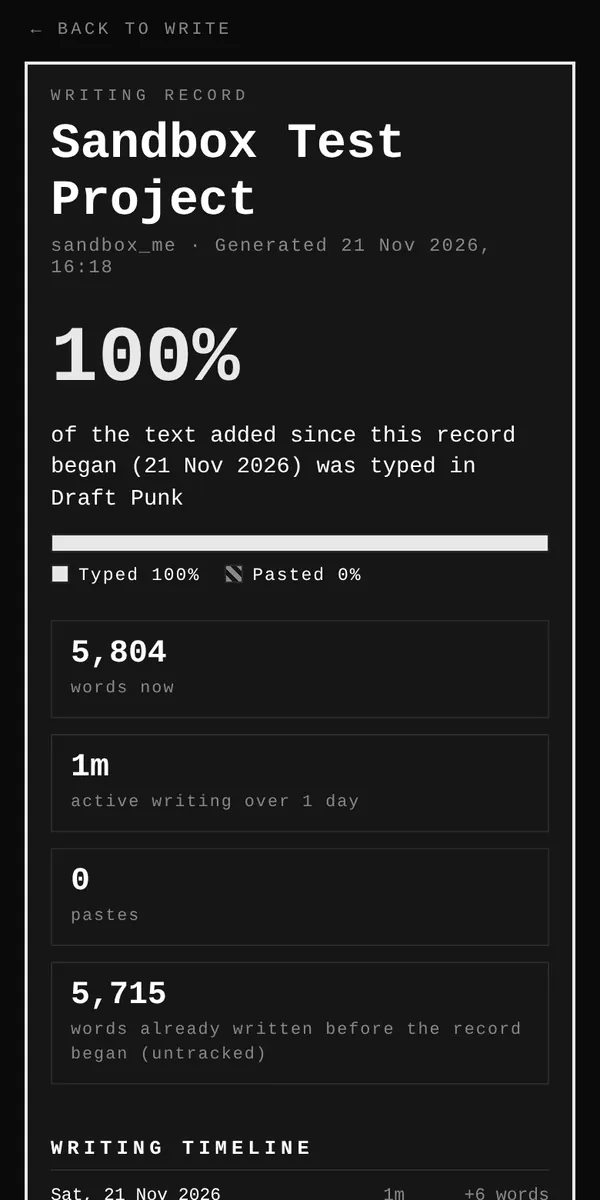
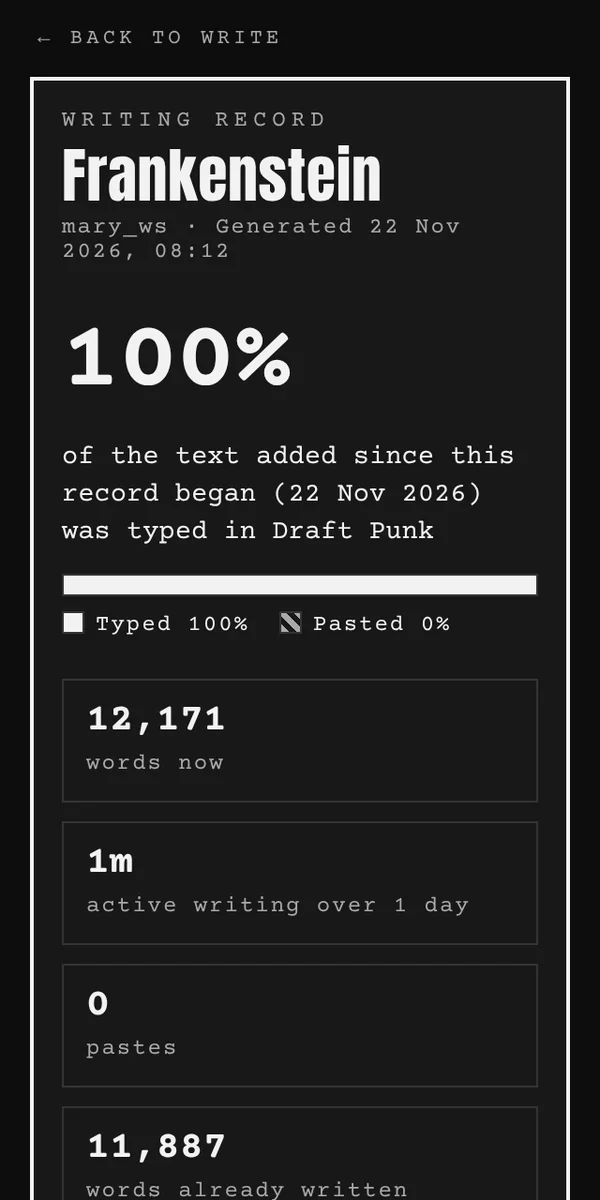
Bosses: drop the float; narrow-phone fixes; landing shots use Frankenstein
- Remove the bob on the next boss (its idle animation moves it)
- Next encounter: long names no longer overlap 'words to go' on narrow phones
- Groups: '+ ADD' no longer pushed off narrow screens
- Landing screenshots retaken with public-domain text (Frankenstein, 1818)

Claude-Session: https://claude.ai/code/session_01Xs8GY9BdVtkwP5KSFjHCCY

diff --git a/index.html b/index.html
@@ -124,7 +124,7 @@
                 <h2 class="lp-display-m">Draft your novel, <mark>chapter by chapter.</mark></h2>
                 <p class="lp-reading">A distraction-free editor with version history for every chapter. Export a standard manuscript as Word, PDF or RTF whenever you need it.</p>
             </div>
-            <img class="lp-shot" src="landing/write.webp" alt="The Write page: a chapter open in the editor" loading="lazy" width="300" height="600">
+            <img class="lp-shot" src="landing/write.webp?v=2" alt="The Write page: a chapter open in the editor" loading="lazy" width="300" height="600">
         </section>
 
         <section class="lp-band">
@@ -141,7 +141,7 @@
                     <figure class="lp-card"><img src="landing/boss-11.webp?v=2" alt="All Is Lost boss" loading="lazy" width="240" height="240"><figcaption>All Is Lost</figcaption></figure>
                     <figure class="lp-card"><img src="landing/boss-14.webp?v=2" alt="Finale boss" loading="lazy" width="240" height="240"><figcaption>Finale</figcaption></figure>
                 </div>
-                <img class="lp-shot lp-shot-band" src="landing/dashboard.webp?v=2" alt="The dashboard: a stage map with the next boss and words to go" loading="lazy" width="300" height="600">
+                <img class="lp-shot lp-shot-band" src="landing/dashboard.webp?v=3" alt="The dashboard: a stage map with the next boss and words to go" loading="lazy" width="300" height="600">
             </div>
         </section>
 
@@ -222,7 +222,7 @@
                 <h2 class="lp-display-m">Write <mark>alongside friends.</mark></h2>
                 <p class="lp-reading">Add writing friends, share chapters with them, and see who's written most on the weekly leaderboard.</p>
             </div>
-            <img class="lp-shot" src="landing/groups.webp" alt="Writing groups: friends and their word counts" loading="lazy" width="300" height="600">
+            <img class="lp-shot" src="landing/groups.webp?v=2" alt="Writing groups: friends and their word counts" loading="lazy" width="300" height="600">
         </section>
 
         <section class="lp-section lp-section-flip">
@@ -231,7 +231,7 @@
                 <h2 class="lp-display-m">Show how your <mark>words arrived.</mark></h2>
                 <p class="lp-reading">Draft Punk records how text came into each chapter: typed, dictated, pasted or imported. Export the record, or share it with a read-only link.</p>
             </div>
-            <img class="lp-shot" src="landing/record.webp" alt="The Writing Record: how much of the text was typed" loading="lazy" width="300" height="600">
+            <img class="lp-shot" src="landing/record.webp?v=2" alt="The Writing Record: how much of the text was typed" loading="lazy" width="300" height="600">
         </section>
 
         <section class="lp-closer">

diff --git a/style.css b/style.css
@@ -2361,7 +2361,14 @@ body.write-focus .write-chapter.write-focus-target .write-toolbar { position: st
 }
 .sm-next img { height: 40px; width: 40px; object-fit: contain; display: block; }
 .sm-next-text { flex: 1; min-width: 0; display: flex; flex-direction: column; gap: 4px; }
-.sm-next-name { font-size: 0.95rem; font-weight: 700; color: var(--neon); }
+.sm-next-name { font-size: 0.95rem; font-weight: 700; color: var(--neon); overflow-wrap: break-word; }
+/* Narrow phones: long encounter names get the full width, words-to-go drops below */
+@media (max-width: 400px) {
+    .sm-next { flex-wrap: wrap; row-gap: 6px; }
+    .sm-next-togo { width: 100%; text-align: left; padding-left: 52px; display: flex; align-items: baseline; gap: 8px; }
+    .sm-next-togo .sm-label { white-space: nowrap; }
+}
+.sm-next-togo { flex-shrink: 0; }
 .sm-next-togo { text-align: right; }
 .sm-next-togo > div:first-child { font-size: 1.25rem; font-weight: 900; color: var(--neon); }
 .sm-boss { margin: 12px 12px 0; display: flex; flex-direction: column; gap: 6px; }
@@ -2546,9 +2553,7 @@ input.dp-signin-code {
 
 /* Idle movement while the page is just being looked at */
 .sm-boss-sprite { display: block; width: 100%; height: 100%; background-repeat: no-repeat; }
-.sm-boss-next .sm-boss-sprite { animation: smBob 2.6s ease-in-out infinite; }
 .sm-minion.sm-is-next { animation: smNextPulse 2s ease-in-out infinite; }
-@keyframes smBob { 0%, 100% { transform: translateY(0); } 50% { transform: translateY(-3px); } }
 @keyframes smNextPulse { 0%, 100% { box-shadow: 0 0 0 0 rgba(242,242,242,0); } 50% { box-shadow: 0 0 0 5px rgba(242,242,242,0.18); } }
 body.light-mode .sm-minion.sm-is-next { animation-name: smNextPulseLight; }
 @keyframes smNextPulseLight { 0%, 100% { box-shadow: 0 0 0 0 rgba(20,20,20,0); } 50% { box-shadow: 0 0 0 5px rgba(20,20,20,0.15); } }

diff --git a/groups.html b/groups.html
@@ -83,7 +83,7 @@
                     <label for="friendUsernameInput" style="font-size:0.75rem;letter-spacing:1px;color:var(--text-dim);">ADD FRIEND BY USERNAME</label>
                     <div style="display:flex;gap:8px;margin-top:8px;">
                         <input type="text" id="friendUsernameInput" placeholder="USERNAME"
-                            style="flex:1;text-transform:uppercase;"
+                            style="flex:1;min-width:0;text-transform:uppercase;"
                             oninput="this.value=this.value.toUpperCase().replace(/[^A-Z0-9_]/g,'')"
                             onkeydown="if(event.key==='Enter') doAddFriend()">
                         <button class="btn-primary" onclick="doAddFriend()" style="white-space:nowrap;">+ ADD</button>
